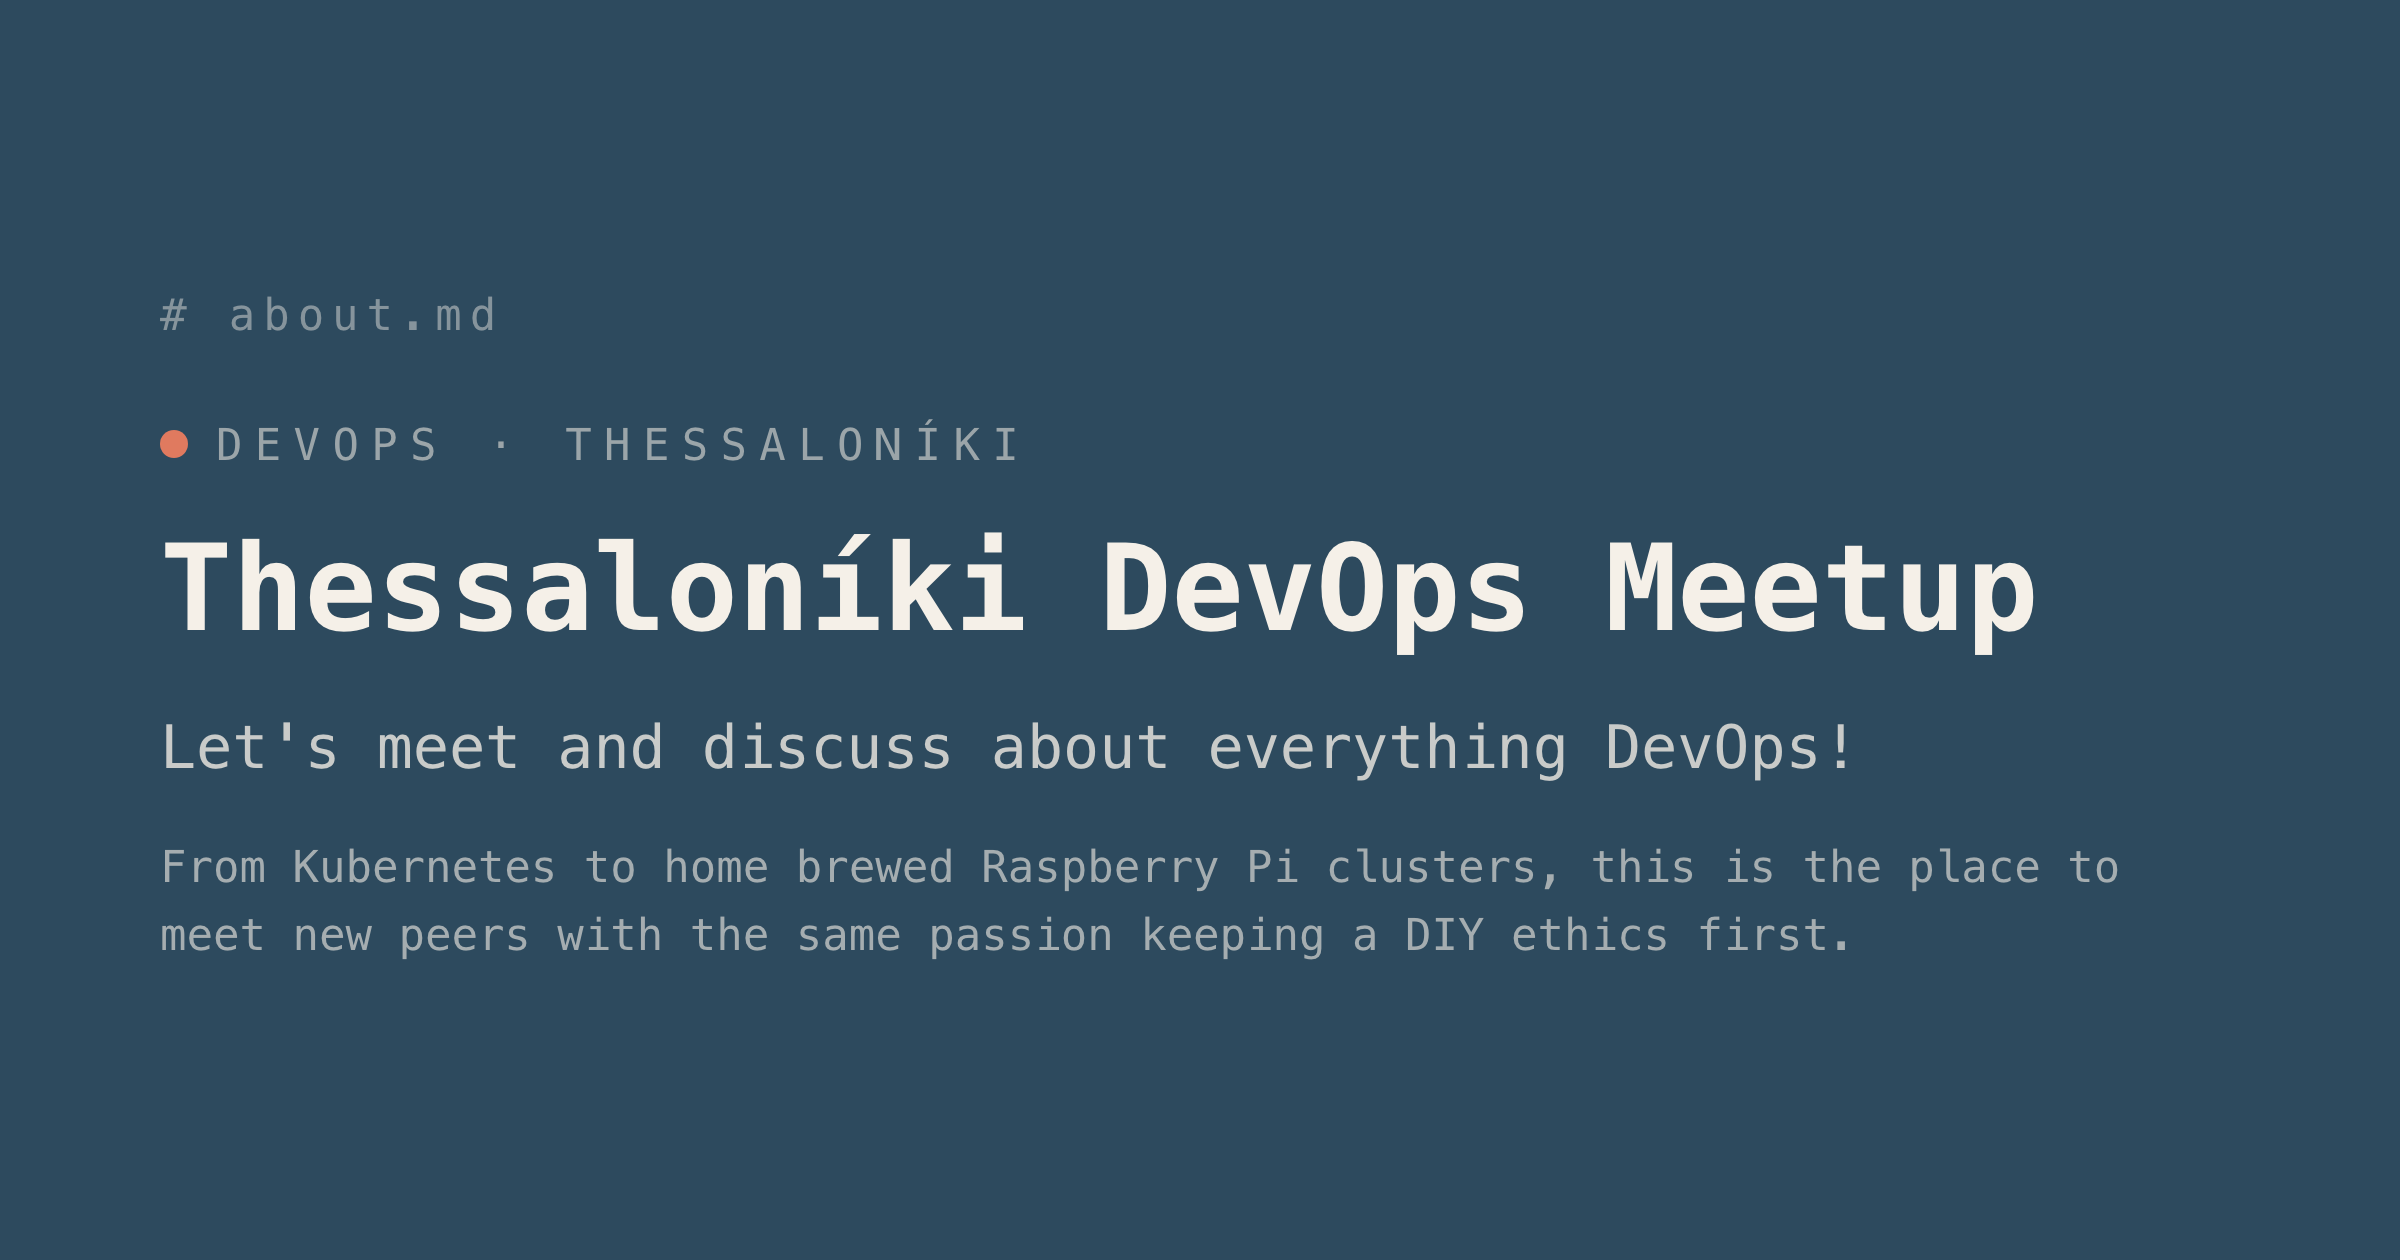
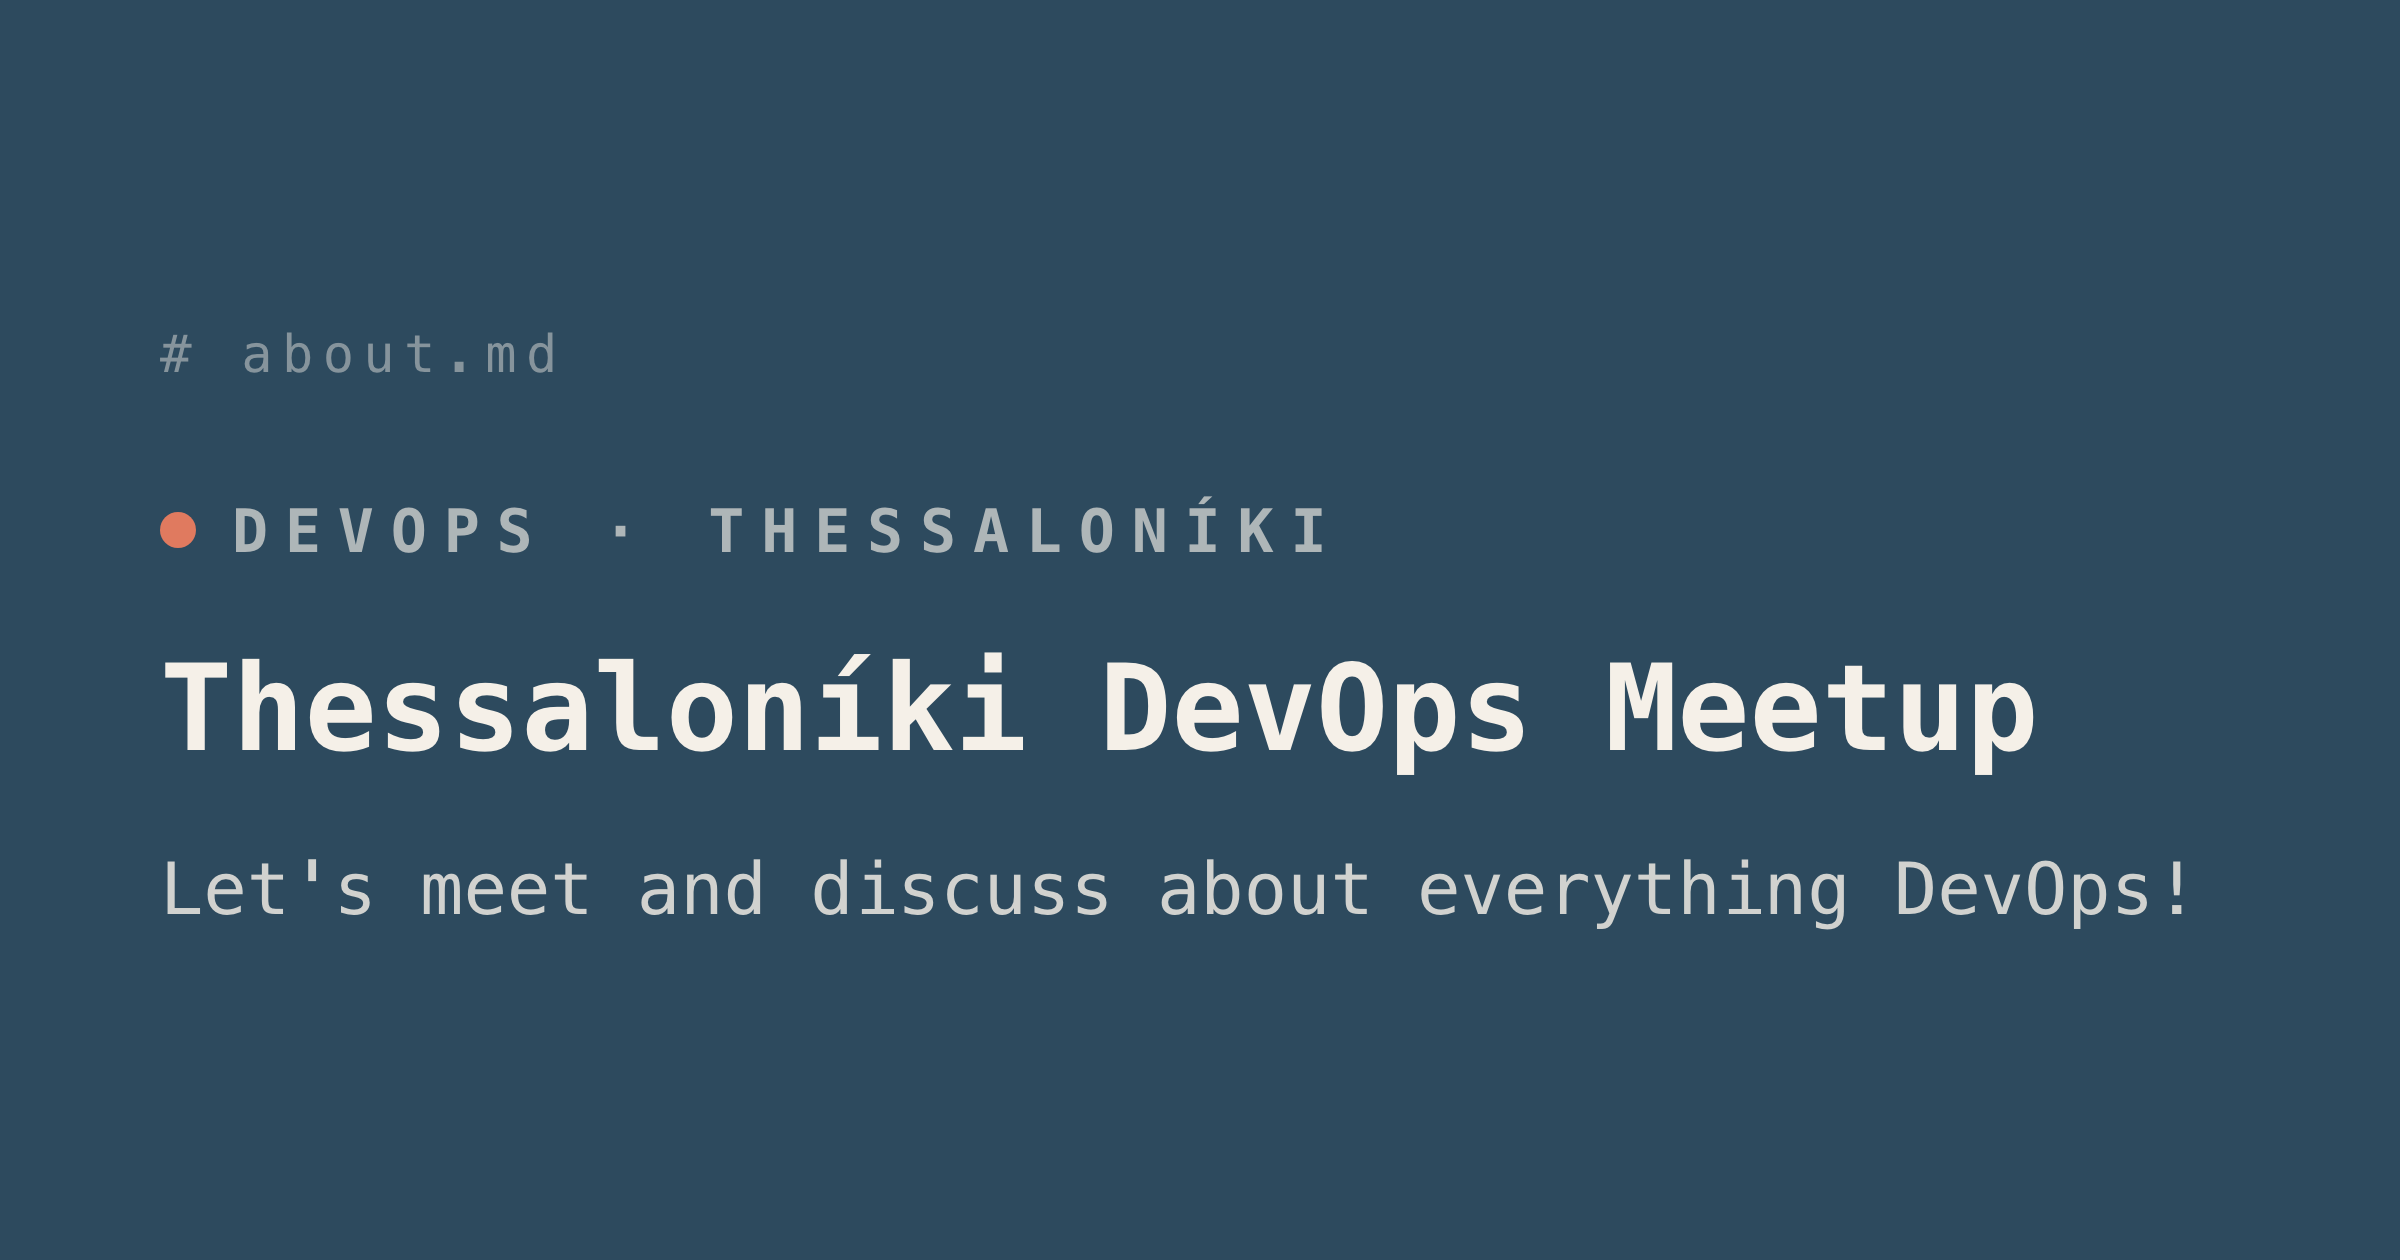
🎨 Redesign OG card for the 480px downscale
The previous card carried a 3-line description at 22px source size,
which turned to unreadable mush at the 480×252 small variant LinkedIn
(and several other surfaces) render for compact contexts. Reframe the
card as a poster, not a document.

- Drop the description block; keep label + chip + title + tagline.
- Scale the chip (30px, weight 600) and tagline (36px) up so every
  surviving row clears the legibility threshold after a 2.5× downscale
  and LinkedIn's re-encode.
- Encode the rule in .claude/skills/og-image/SKILL.md: target ≥30px
  body / ≥28px chips / ≥60px title at canvas size, and verify with
  `magick … -resize 480x252` before committing.

diff --git a/scripts/og-template.html b/scripts/og-template.html
@@ -31,49 +31,43 @@
         justify-content: center;
       }
       .about-label {
-        font-size: 22px;
+        font-size: 26px;
         color: rgba(245, 240, 232, 0.45);
         letter-spacing: 0.18em;
-        margin-bottom: 40px;
+        margin-bottom: 56px;
       }
       .meta-row {
         display: flex;
         align-items: center;
-        gap: 14px;
-        margin-bottom: 28px;
+        gap: 18px;
+        margin-bottom: 40px;
       }
       .dot {
-        width: 14px;
-        height: 14px;
+        width: 18px;
+        height: 18px;
         border-radius: 9999px;
         background: var(--accent);
         display: inline-block;
       }
       .meta-text {
-        font-size: 22px;
-        color: rgba(245, 240, 232, 0.55);
+        font-size: 30px;
+        color: rgba(245, 240, 232, 0.65);
         letter-spacing: 0.28em;
+        font-weight: 600;
       }
       .title {
         font-size: 60px;
         font-weight: 700;
         line-height: 1.05;
-        margin: 0 0 28px 0;
+        margin: 0 0 36px 0;
         color: var(--cream);
         white-space: nowrap;
       }
       .tagline {
-        font-size: 30px;
-        color: rgba(245, 240, 232, 0.78);
-        margin: 0 0 24px 0;
-        line-height: 1.3;
-      }
-      .description {
-        font-size: 22px;
-        color: rgba(245, 240, 232, 0.6);
+        font-size: 36px;
+        color: rgba(245, 240, 232, 0.82);
         margin: 0;
-        line-height: 1.55;
-        max-width: 1000px;
+        line-height: 1.3;
       }
     </style>
   </head>
@@ -86,7 +80,6 @@
       </div>
       <h1 class="title">Thessaloníki DevOps Meetup</h1>
       <p class="tagline">Let's meet and discuss about everything DevOps!</p>
-      <p class="description">From Kubernetes to home brewed Raspberry Pi clusters, this is the place to meet new peers with the same passion keeping a DIY ethics first.</p>
     </div>
   </body>
 </html>

diff --git a/.claude/skills/og-image/SKILL.md b/.claude/skills/og-image/SKILL.md
@@ -36,16 +36,32 @@ src/pages/index.astro      ← <meta property="og:image" ...>
 ## Workflow
 
 1. **Identify what's changing.** Text-only (e.g. new tagline)? Visual (font size, colors, spacing)? Both?
-2. **Edit `scripts/og-template.html`.** It's a self-contained HTML file — CSS is inline, palette variables match `src/pages/index.astro` (`--primary` / `--accent` / `--cream` / `--blue-gray`). Mirror the Hero component's visual language: the `# about.md` faded label on top, an orange dot + `DEVOPS · THESSALONÍKI` chip line, big bold title, tagline, description. **Stop the content at the description** — the card intentionally omits the CTAs and the "speak/host/sponsor" line from the Hero.
+2. **Edit `scripts/og-template.html`.** It's a self-contained HTML file — CSS is inline, palette variables match `src/pages/index.astro` (`--primary` / `--accent` / `--cream` / `--blue-gray`). The card is a 4-element composition: the `# about.md` faded label on top, an orange dot + `DEVOPS · THESSALONÍKI` chip line, big bold title, tagline. The card intentionally drops the Hero's description, CTAs, and "speak/host/sponsor" line — see the readability rule below.
 3. **Mind the title width.** The title uses `white-space: nowrap` and is sized to fit `Thessaloníki DevOps Meetup` on one line at 60px monospace bold. If the title text gets longer, drop the size or allow wrapping — don't let it run off the canvas. The safe content area is 1040px wide (1200 − 80px padding × 2).
 4. **Regenerate:**
    ```
    npm run gen:og
    ```
    Confirm the script logged `✓ wrote …/public/og-image.png` and that the file timestamp updated.
-5. **Spot-check the output** by reading `public/og-image.png` (it renders inline). Look for: title not clipped, all four text rows visible, vertical centering balanced.
-6. **If dimensions changed** (you changed the viewport or DPR in `scripts/generate-og-image.mjs`), update the matching meta tags in [src/pages/index.astro](src/pages/index.astro): `og:image:width` and `og:image:height`. The default is 2400 × 1260 (1200×630 logical × DPR 2).
-7. **Don't touch the SVG fallback** — there isn't one. The PNG is the only artifact.
+5. **Spot-check the output** by reading `public/og-image.png` (it renders inline). Look for: title not clipped, all rows visible, vertical centering balanced.
+6. **Simulate the LinkedIn small variant** before committing:
+   ```
+   magick public/og-image.png -resize 480x252 /tmp/og-480.png
+   ```
+   Then read `/tmp/og-480.png`. If any text row turns mushy/illegible at that size, the card is overloaded — see "Design for the 480px downscale" below.
+7. **If dimensions changed** (you changed the viewport or DPR in `scripts/generate-og-image.mjs`), update the matching meta tags in [src/pages/index.astro](src/pages/index.astro): `og:image:width` and `og:image:height`. The default is 2400 × 1260 (1200×630 logical × DPR 2).
+8. **Don't touch the SVG fallback** — there isn't one. The PNG is the only artifact.
+
+## Design for the 480px downscale
+
+LinkedIn (and several other surfaces — search results, sidebars, embedded shares) renders the OG card at 480×252 in compact contexts. Anything sourced from a 1200×630 canvas gets a 2.5× downscale on top of LinkedIn's re-encode. Body copy sized like real body copy disappears.
+
+**Rule of thumb**: at 480×252, every line of text should still be legible. The card is a **poster**, not a document.
+
+- Avoid multi-line descriptive paragraphs. One tagline is plenty.
+- Source text at **≥30px** for body, **≥28px** for chips/labels, **≥60px** for the title. Smaller than that and it becomes mush after the 2.5× downscale + LinkedIn's encoder.
+- Prefer high-contrast type colors (`var(--cream)` at ≥0.65 opacity) over the soft `0.4–0.55` greys you'd use on the real page — subtle tonality dies in compression.
+- Always run the `magick … -resize 480x252` check in step 6 before committing. The earlier iteration of this card included a 3-line description at 22px source size and turned to mush at 480px wide; that's the failure mode we're guarding against.
 
 ## Constraints worth knowing
 